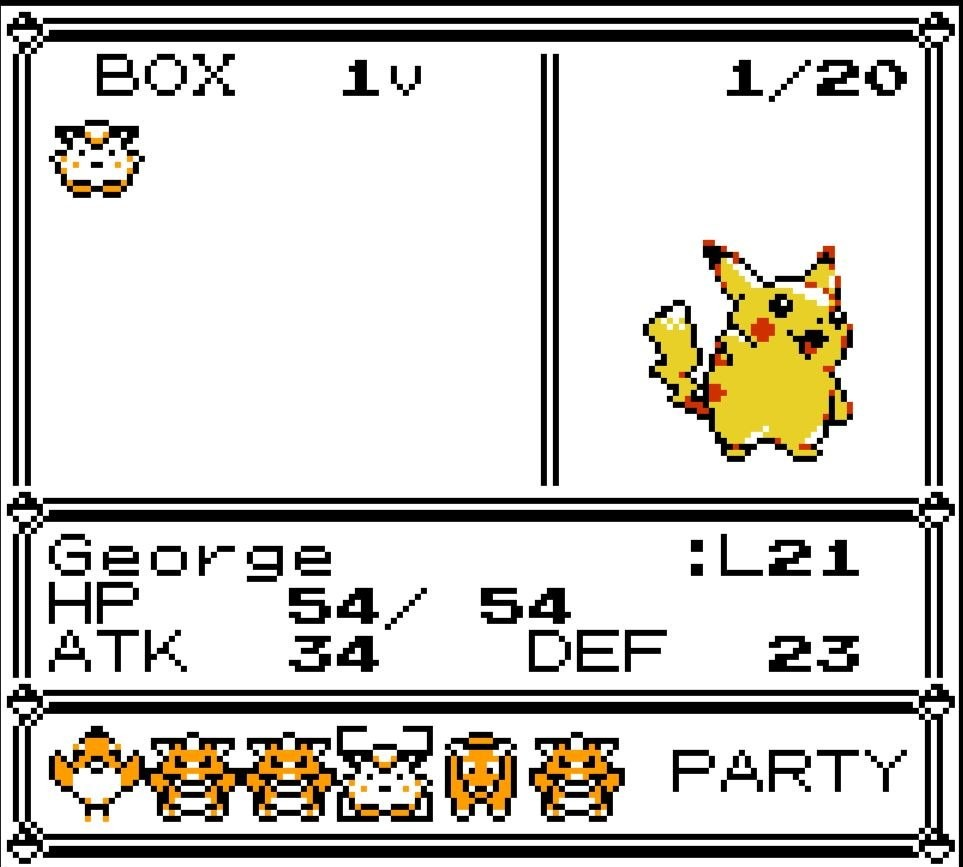
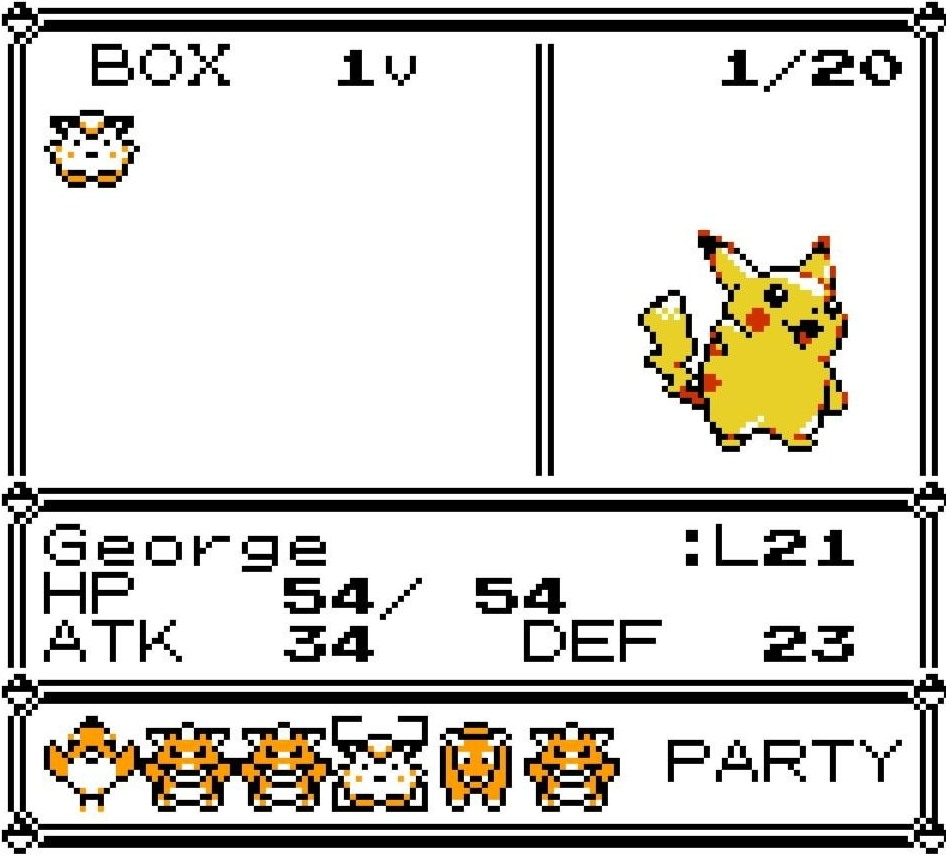
Crop screenshots to identical canvases

Changed region(s): [[0.0, 0.0, 1.0, 1.0], [0.4292, 0.6682, 0.4598, 0.6986]]

diff --git a/README.md b/README.md
@@ -16,7 +16,7 @@ something, and it tells you when it does.
 
 | Box view | Deposit mode |
 |---|---|
-| <img src="images/screen2.jpg" width="480" alt="Box view: the 5x4 grid with the selected Pokemon's sprite and stats"/> | <img src="images/screen1.jpg" width="480" alt="Deposit mode: the party row under the box grid"/> |
+| <img src="images/screen2.jpg?v=2" width="480" alt="Box view: the 5x4 grid with the selected Pokemon's sprite and stats"/> | <img src="images/screen1.jpg?v=2" width="480" alt="Deposit mode: the party row under the box grid"/> |
 
 ## Features
 
